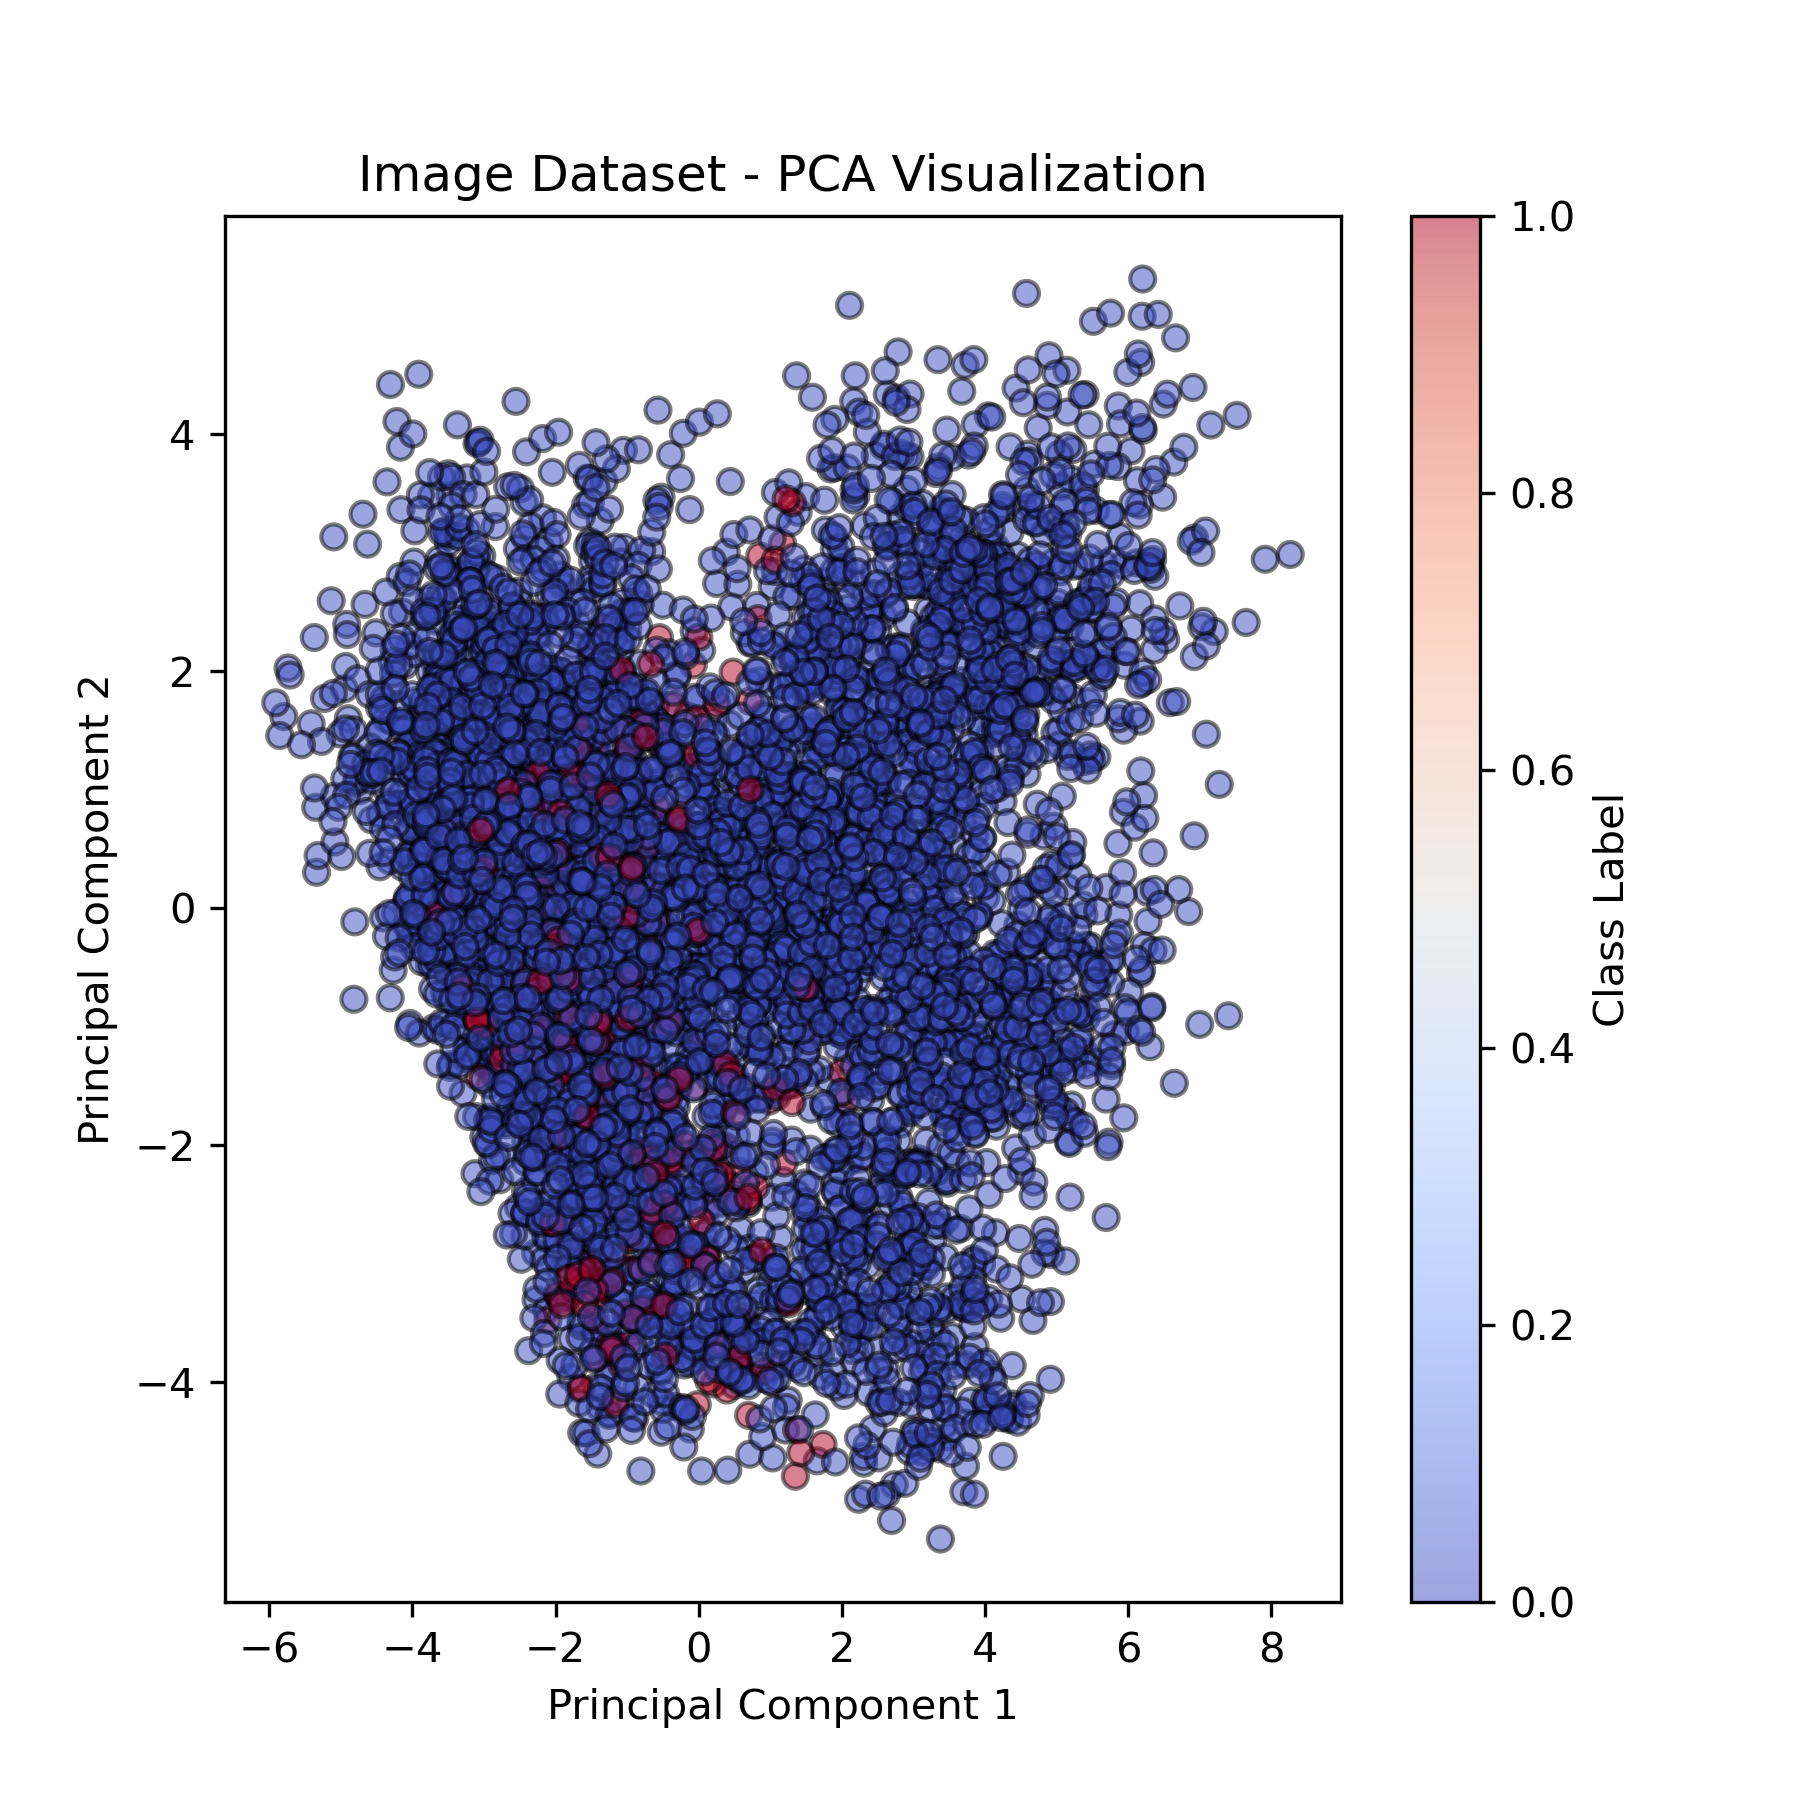
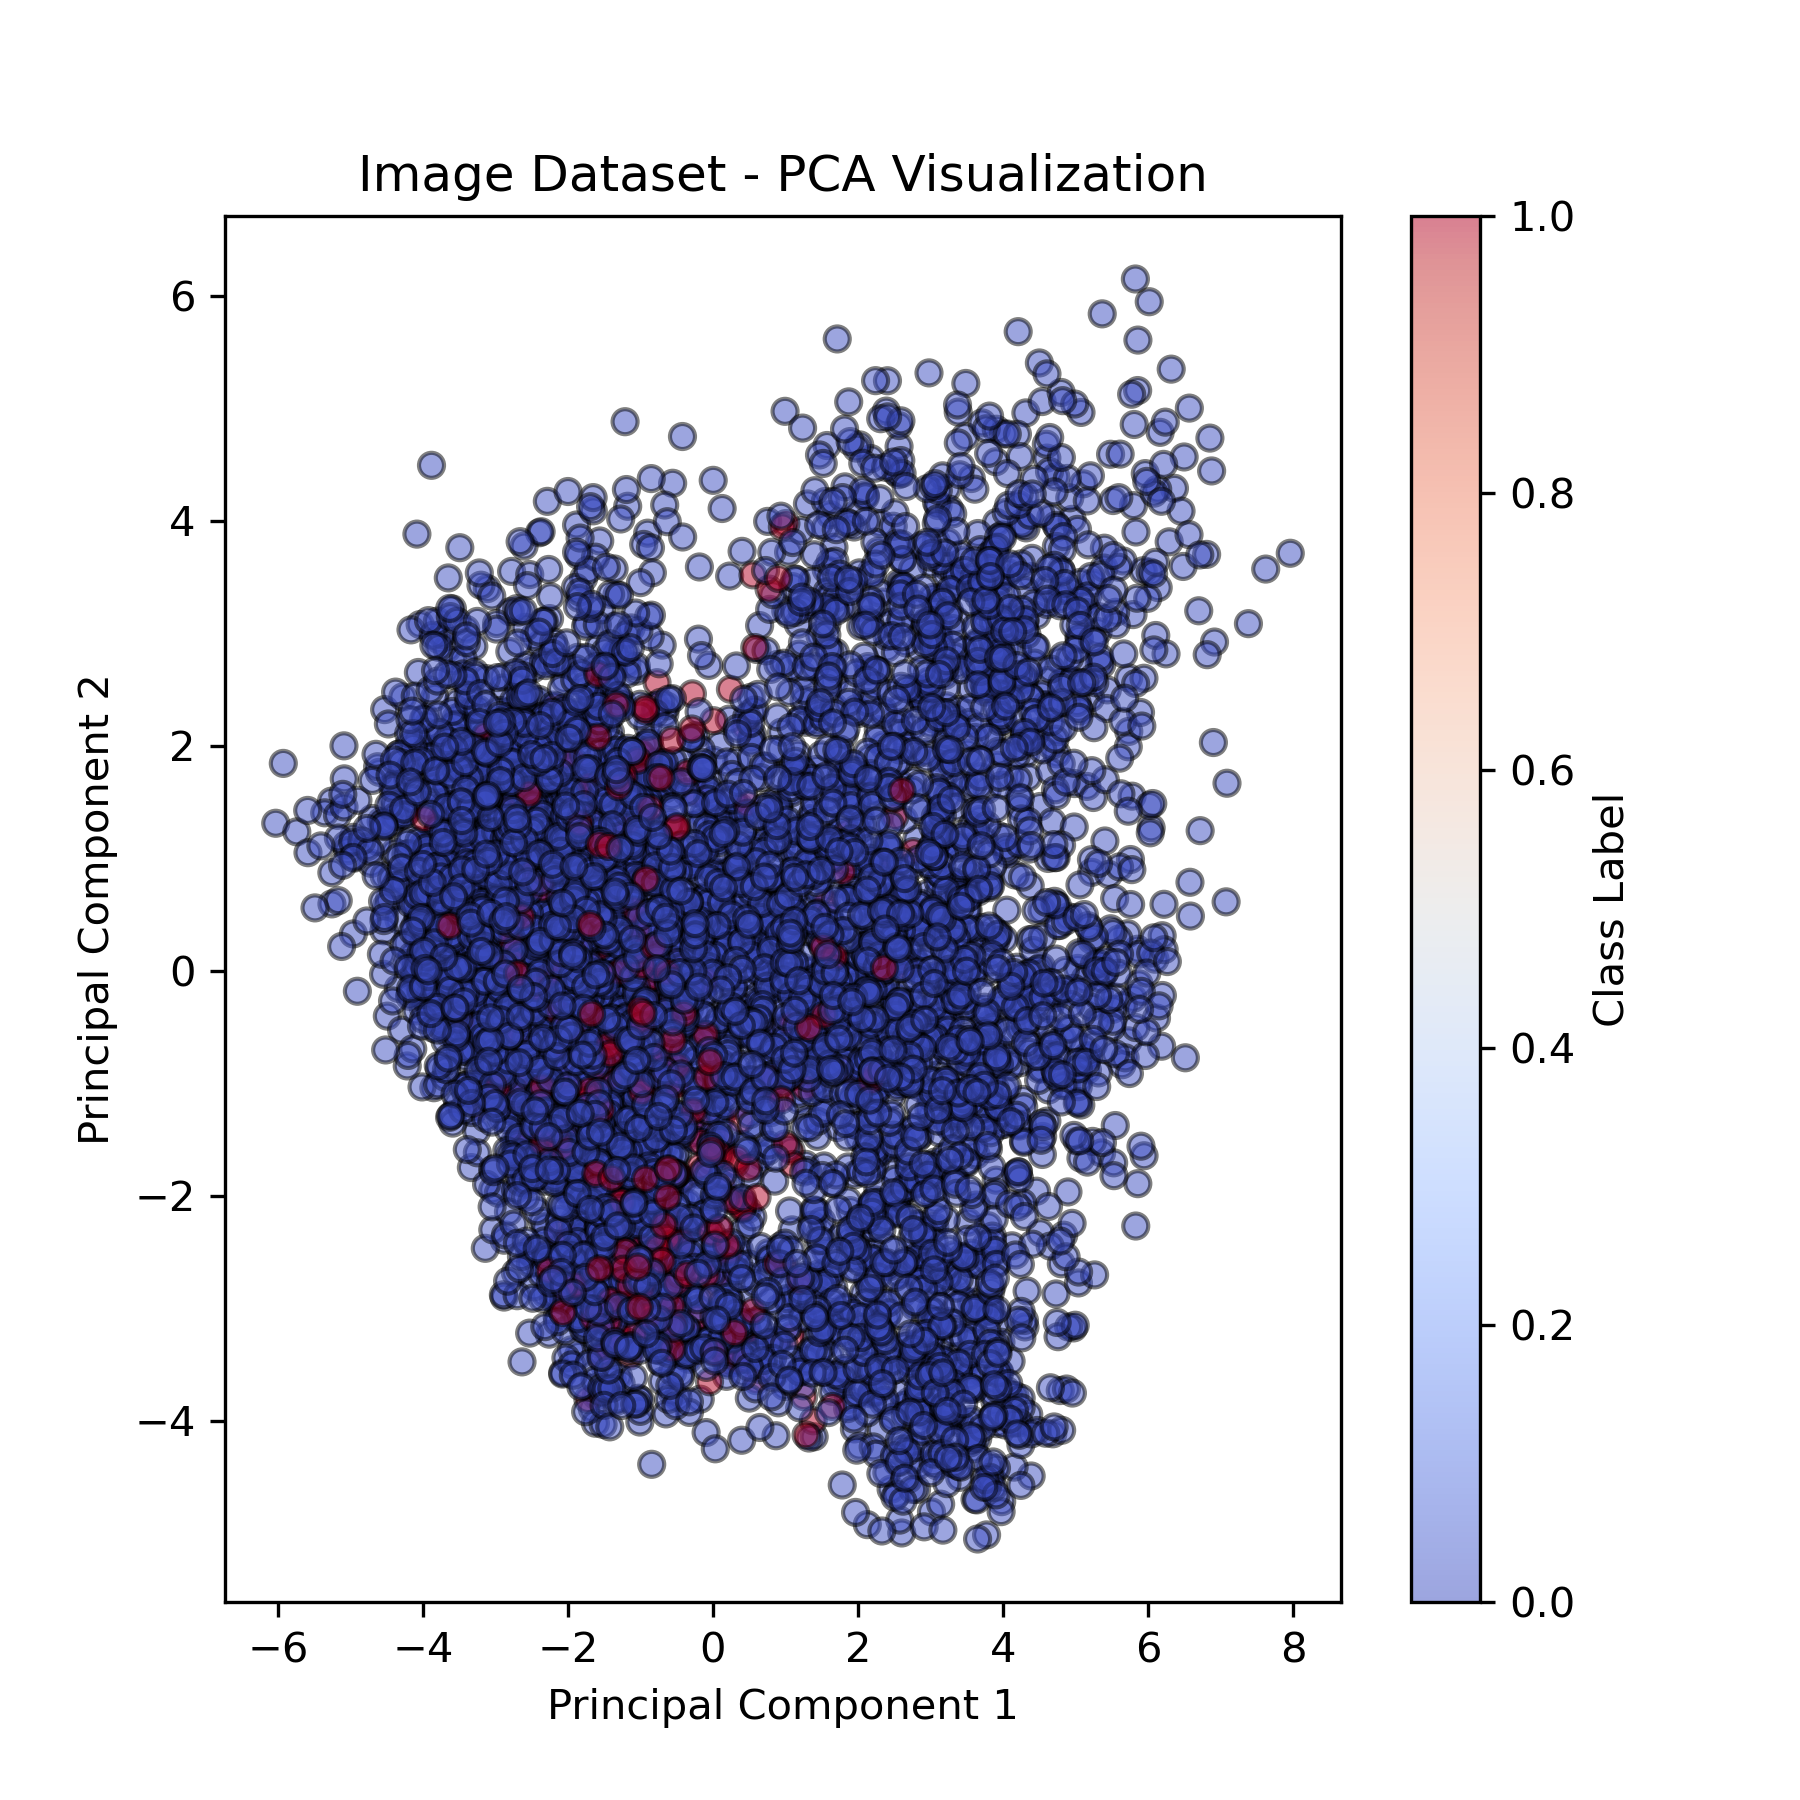
Analysing class imbalance with and without SMOTE - ✅Working

diff --git a/utils/PCA_analysis_imbalance.py b/utils/PCA_analysis_imbalance.py
@@ -1,6 +1,7 @@
 # ==============================================================================
-# File: PCA_analysis_imabalance.py
-# Description: Script to analyze the imbalance in the PEI dataset using a PCA.
+# File: PCA_analysis_imbalance.py
+# Description: Script to analyze the imbalance in the PEI dataset using PCA,
+#              comparing SVM performance with and without SMOTE oversampling.
 # Author: @cfusterbarcelo
 # Created: 26/02/2025
 # ==============================================================================
@@ -16,44 +17,44 @@ import os
 import sys
 from imblearn.over_sampling import SMOTE
 from sklearn.svm import SVC
-
+from sklearn.metrics import classification_report
 
 # Add the root directory of the project to sys.path
 sys.path.append(os.path.abspath(os.path.join(os.path.dirname(__file__), "..")))
 
 from dataloader.dataloader_PEI_classificator import ClassificationDataLoader
 
-# ============================================================================
+# ==========================================================================
 # Configuration: Set Paths
-# ============================================================================
+# ==========================================================================
 RAW_IMAGES_FOLDER = "D:/Data/EHRatioAnalysis/PEI TIFF"  # Change this to your image folder
 ANNOTATIONS_FOLDER = "D:/Data/EHRatioAnalysis"  # Change this to where your annotations are stored
 PROCESSED_IMAGES_FOLDER = os.path.join(os.path.dirname(RAW_IMAGES_FOLDER), "PEI_processed_data")
 RESULTS_FOLDER = "./results/results_classificator/pca"  # Folder to save results
 os.makedirs(RESULTS_FOLDER, exist_ok=True)
 
-# ============================================================================
+# ==========================================================================
 # Load Dataset and Create Train Loader
-# ============================================================================
-train_loader, val_loader, test_loader = ClassificationDataLoader.train_val_test_split(
+# ==========================================================================
+train_loader = ClassificationDataLoader.train_val_test_split(
     images_folder=PROCESSED_IMAGES_FOLDER,
     annotations=ClassificationDataLoader.load_annotations(ANNOTATIONS_FOLDER),
     splits=(0.7, 0.15, 0.15),
     batch_size=16,
     shuffle=True
-)
+)[0]  # Only keep train_loader
 
-# ============================================================================
+# ==========================================================================
 # Load Pretrained ResNet50 for Feature Extraction
-# ============================================================================
+# ==========================================================================
 device = torch.device("cuda" if torch.cuda.is_available() else "cpu")
 resnet = models.resnet50(pretrained=True).to(device)
 resnet.fc = torch.nn.Identity()  # Remove last FC layer to get feature vectors
 resnet.eval()
 
-# ============================================================================
+# ==========================================================================
 # Function to Extract Features
-# ============================================================================
+# ==========================================================================
 def extract_features(data_loader, model, device):
     """Extracts features from images using a pre-trained model."""
     features, labels = [], []
@@ -65,9 +66,9 @@ def extract_features(data_loader, model, device):
             labels.append(lbls.numpy())
     return np.vstack(features), np.hstack(labels)
 
-# ============================================================================
+# ==========================================================================
 # Extract Features from Train Loader
-# ============================================================================
+# ==========================================================================
 X_train_features, y_train = extract_features(train_loader, resnet, device)
 
 # Normalize features
@@ -78,9 +79,9 @@ X_train_scaled = scaler.fit_transform(X_train_features)
 pca = PCA(n_components=2)
 X_train_pca = pca.fit_transform(X_train_scaled)
 
-# ============================================================================
+# ==========================================================================
 # Function to Plot Dataset
-# ============================================================================
+# ==========================================================================
 def plot_data(X, y, title, save_path=None):
     plt.figure(figsize=(6, 6))
     plt.scatter(X[:, 0], X[:, 1], c=y, alpha=0.5, edgecolors="k", cmap="coolwarm")
@@ -95,8 +96,44 @@ def plot_data(X, y, title, save_path=None):
     
     plt.show()
 
-# ============================================================================
-# Visualize Dataset and Save Plot
-# ============================================================================
+# ==========================================================================
+# Apply SMOTE and Train SVM with and without Oversampling
+# ==========================================================================
+print("\n🔹 Training SVM WITHOUT SMOTE...")
+clf_no_smote = SVC(kernel='linear', probability=True)
+clf_no_smote.fit(X_train_pca, y_train)
+y_pred_no_smote = clf_no_smote.predict(X_train_pca)
+
+# Save PCA Visualization Before SMOTE
 save_path = os.path.abspath(os.path.join(RESULTS_FOLDER, "pca_visualization.png"))
 plot_data(X_train_pca, y_train, title="Image Dataset - PCA Visualization", save_path=save_path)
+
+# Apply SMOTE
+print(f"Before SMOTE: Class distribution: {np.bincount(y_train)}")
+smote = SMOTE(random_state=0)
+X_train_smote, y_train_smote = smote.fit_resample(X_train_pca, y_train)
+print(f"After SMOTE: Class distribution: {np.bincount(y_train_smote)}")
+
+# Save PCA Visualization After SMOTE
+smote_save_path = os.path.abspath(os.path.join(RESULTS_FOLDER, "pca_visualization_smote.png"))
+plot_data(X_train_smote, y_train_smote, title="PCA Visualization After SMOTE", save_path=smote_save_path)
+
+print("\n🔹 Training SVM WITH SMOTE...")
+clf_smote = SVC(kernel='linear', probability=True)
+clf_smote.fit(X_train_smote, y_train_smote)
+y_pred_smote = clf_smote.predict(X_train_smote)
+
+# ==========================================================================
+# Save Classification Reports
+# ==========================================================================
+report_no_smote = classification_report(y_train, y_pred_no_smote)
+report_smote = classification_report(y_train_smote, y_pred_smote)
+
+report_path = os.path.abspath(os.path.join(RESULTS_FOLDER, "classification_report.txt"))
+with open(report_path, "w") as f:
+    f.write("Classification Report WITHOUT SMOTE:\n")
+    f.write(report_no_smote + "\n\n")
+    f.write("Classification Report WITH SMOTE:\n")
+    f.write(report_smote + "\n")
+
+print(f"Classification reports saved at {report_path}")

diff --git a/results/results_classificator/pca/README.md b/results/results_classificator/pca/README.md
@@ -1,0 +1,84 @@
+# **PCA Analysis & SMOTE Evaluation for Class Imbalance**
+
+## **Overview**
+This experiment investigates the class imbalance problem in our dataset using **PCA visualization** and evaluates the impact of **SMOTE oversampling** on **SVM classification performance** for **PEI images**. The results compare the model's performance **with and without SMOTE** to determine how oversampling affects classification accuracy.
+
+---
+
+## **1⃣ PCA Visualization of the Dataset**
+We reduced the **image feature space** to **2D** using **Principal Component Analysis (PCA)** to observe the class distribution before and after applying **SMOTE**.
+
+### 🔹 **Original Dataset (Before SMOTE)**
+<img src="pca_visualization.png" alt="PCA Before SMOTE" width="50%">
+- The dataset is **highly imbalanced** (Class 0 dominates).
+- The SVM classifier **ignored Class 1 entirely** in this setting.
+
+### 🔹 **SMOTE Oversampled Dataset**
+<img src="pca_visualization_smote.png" alt="PCA After SMOTE" width="50%">
+- SMOTE **balanced the class distribution**, making Class 1 more visible.
+- The SVM classifier was forced to **learn from both classes**.
+
+---
+
+## **2⃣ Classification Results**
+| **Metric**  | **Without SMOTE** | **With SMOTE** | **Change** |
+|-------------|------------------|----------------|------------|
+| **Accuracy** | **94%** | **65%** | 📉 Drops (expected, as model now recognizes class 1) |
+| **Class 0 Recall** | **100%** | **43%** | 📉 Model is misclassifying class 0 more |
+| **Class 1 Recall** | **0%** | **86%** | 📈 Massive improvement! Model now detects class 1 |
+| **Class 1 Precision** | **0%** | **60%** | 📈 Model now predicts class 1 correctly |
+
+### **🔹 Classification Report WITHOUT SMOTE**
+```yaml
+          precision    recall  f1-score   support
+
+       0       0.94      1.00      0.97      6416
+       1       0.00      0.00      0.00       416
+
+accuracy                           0.94      6832
+macro avg 0.47 0.50 0.48 6832 weighted avg 0.88 0.94 0.91 6832
+```
+➡ **Class 1 is completely ignored** by the model because the dataset is **highly imbalanced**.
+---
+### **🔹 Classification Report WITH SMOTE**
+```yaml
+          precision    recall  f1-score   support
+
+       0       0.75      0.43      0.55      6416
+       1       0.60      0.86      0.71      6416
+
+accuracy                           0.65     12832
+macro avg 0.68 0.65 0.63 12832 weighted avg 0.68 0.65 0.63 12832
+```
+➡ **Class 1 recall improved from 0% to 86%!** However, **Class 0 recall dropped significantly**, meaning many Class 0 samples were misclassified as Class 1.
+
+---
+
+## **3⃣ Conclusions**
+- **Without SMOTE**:  
+  - The SVM model completely **ignored Class 1**, resulting in misleadingly **high accuracy (94%)**.
+  - This is **not a good classifier**, as it fails to detect minority class cases.
+
+- **With SMOTE**:  
+  - **Class 1 recall improved dramatically (0% → 86%)**, meaning the model now detects Class 1 well.
+  - **Class 0 recall dropped (100% → 43%)**, meaning the model now misclassifies some Class 0 cases.
+  - **Overall accuracy decreased (94% → 65%)**, but this is expected since the model is no longer biased.
+
+---
+
+## **4⃣ Next Steps & Recommendations**
+✅ **Try Hybrid Sampling (SMOTE + Undersampling)**  
+- **Current issue**: While SMOTE helped Class 1 recall, it caused **Class 0 misclassification**.  
+- **Solution**: Use **SMOTE + Undersampling (SMOTEENN)** to balance both classes:
+  ```python
+  from imblearn.combine import SMOTEENN
+  smote_enn = SMOTEENN(random_state=0)
+  X_train_balanced, y_train_balanced = smote_enn.fit_resample(X_train_pca, y_train)
+  ```
+- This method **adds synthetic samples to Class 1** while also removing some samples from Class 0 to avoid overfitting to synthetic data.
+
+✅ Evaluate ROC Curves & Precision-Recall Curves
+- If false positives (Class 0 misclassified as Class 1) are problematic, we may need cost-sensitive learning or adjust thresholds.
+
+✅ Apply to ResNet50 network
+- **Repeat the experiment** using **ResNet50 features** to see if the results are consistent across different feature extraction methods.
